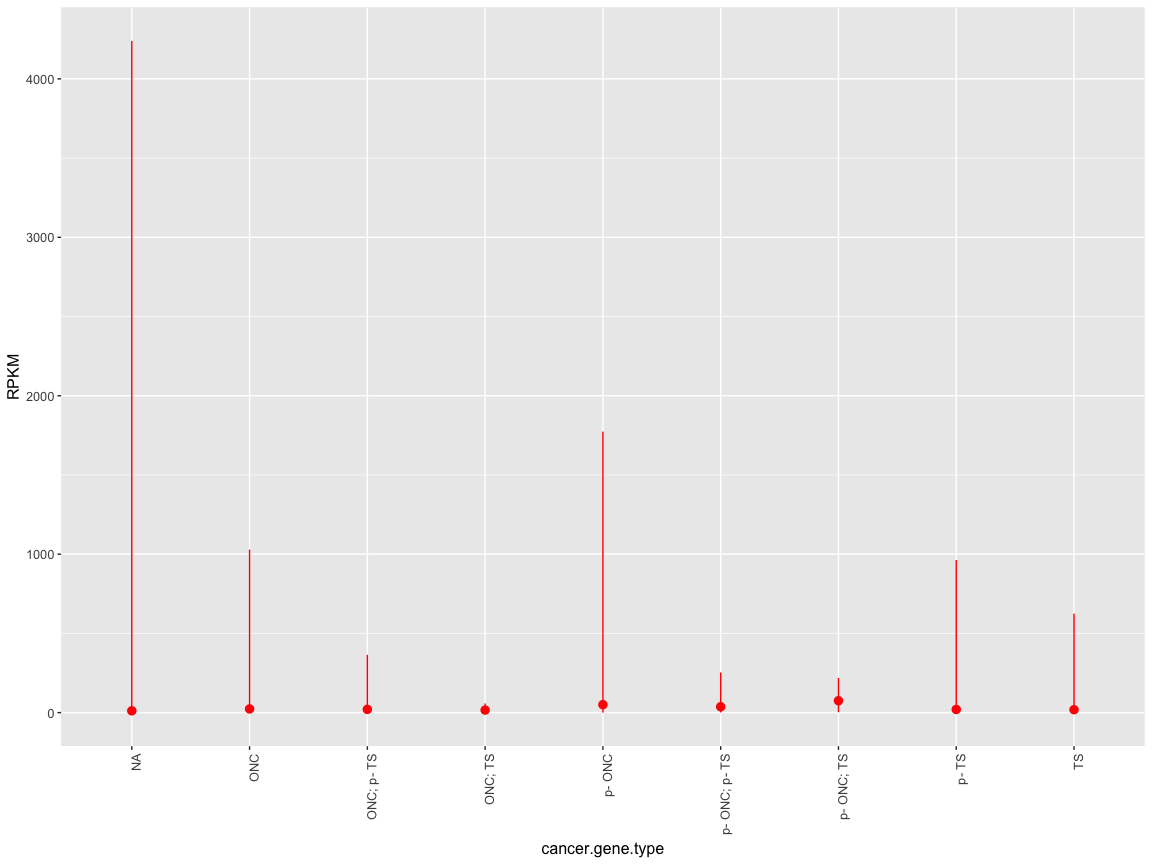
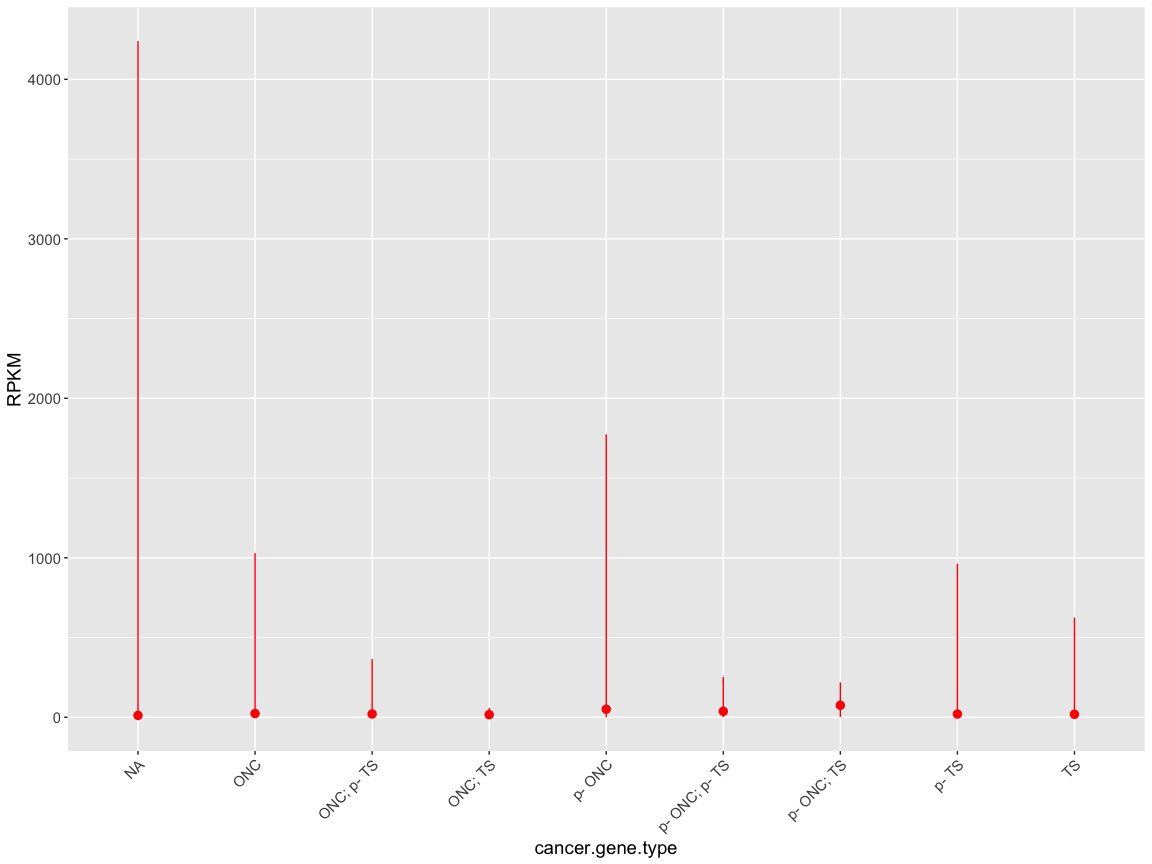
final

Changed region(s): [[0.0, 0.0, 1.0, 0.9375], [0.4688, 0.9375, 0.5938, 1.0]]

diff --git a/stat545-hw3-thibodeau-mylinh/stat545-hw03-thibodeau-mylinh.md b/stat545-hw3-thibodeau-mylinh/stat545-hw03-thibodeau-mylinh.md
@@ -268,15 +268,15 @@ Task menu - Interpretation of tasks in the context of my genomic data
 I don't have a "time" value in my dataset, so I will use some equivalences for genomic data, this would be an example:
 
 -   Countries -&gt; class factor variable (e.g. hugo)
--   Continent -&gt; class factor variable that overarch another factor variable (e.g. cancer.gene.type)
+-   Continent -&gt; class factor variable that overarch another factor variable (e.g. cancer.gene.type, copy.category)
 -   Life expectancy -&gt; class numeric (e.g. RPKM, FC.mean.Bodymap, or even avg.TCGA.percentile treated as a numeric variable)
--   Year -&gt; class integer (e.g. chromosome start, copy.change), or class factor (e.g. avg.TCGA.percentile as a factor variable)
+-   Year -&gt; class integer (e.g. chromosome start, copy.change), or class numeric (e.g. avg.TCGA.percentile as a numeric variable)
 
 I took the liberty to change the class of my variables in order to answer the homework requirements. For example, avg.TCGA.percentile can be either an integer or a numeric class, depending on my needs.
 
 ------------------------------------------------------------------------
 
-1.  Get the maximum and minimum RPKM (Reads Per Kilobase of transcript per Million mapped reads) for each cancer.gene.type. You can find more information about this genomic parameter with [this blog](http://www.rna-seqblog.com/rpkm-fpkm-and-tpm-clearly-explained/) if you are curious.
+### Get the maximum and minimum RPKM (Reads Per Kilobase of transcript per Million mapped reads) for each cancer.gene.type. You can find more information about this genomic parameter with [this blog](http://www.rna-seqblog.com/rpkm-fpkm-and-tpm-clearly-explained/) if you are curious.
 
 Note. Rna-seq data (or transcriptome) is used as a surrogate of gene expression in genomic analyses.
 
@@ -410,7 +410,7 @@ tumour suppressor
 </table>
 It is not surprising that the minimum value of RPKM be zero, since many genes are either not expressed in certain tissues, or they may be silenced in the process of oncogenesis.
 
-Note. I have learned how to use kable and piping from [Rajendran Arun](https://github.com/abishekarun/STAT545-hw-rajendran-arun/blob/master/hw02/hw02_gapminder.Rmd)
+Note. I have learned how to use kable and piping with kable from [Rajendran Arun](https://github.com/abishekarun/STAT545-hw-rajendran-arun/blob/master/hw02/hw02_gapminder.Rmd)
 
 **ABBREVIATIONS**
 
@@ -546,14 +546,14 @@ Here is a visual representation of the minimum and maximum value of RPKM for eac
 rna_cnv %>%
   group_by(cancer.gene.type) %>%
   ggplot(aes(x=cancer.gene.type, y=RPKM, colour = cancer.gene.type)) + stat_summary(fun.y = mean, fun.ymin = min, fun.ymax = max,
-  colour = "red") + theme(text = element_text(size=12), axis.text.x = element_text(angle=90, hjust=1)) 
+  colour = "red") + theme(text = element_text(size=14), axis.text.x = element_text(angle=45, hjust=1)) 
 ```
 
 ![](stat545-hw03-thibodeau-mylinh_files/figure-markdown_github-ascii_identifiers/unnamed-chunk-11-1.png)
 
 ------------------------------------------------------------------------
 
-1.  Look at the spread of RPKM for all each cancer.gene.type group.
+### Look at the spread of RPKM for all each cancer.gene.type group.
 
 I am not sure that the word "spread" refers to here, it might be because of translation issues (unfortunately, the [Collins dictionary](https://www.collinsdictionary.com/dictionary/english-french/spread) did not help me much either), so I will make a table with the summary statistics for each category (mean, standard deviation, median, minimum, maximum, etc.)
 
@@ -813,7 +813,7 @@ We will need to arrange the data (ascending RPKM values) before making a boxplot
 p1 <- rna_cnv %>%
   group_by(cancer.gene.type) %>% 
   ggplot(aes(x=cancer.gene.type, y=RPKM))
-p1+ geom_boxplot() + theme(text = element_text(size=12), axis.text.x = element_text(angle=90, hjust=1)) 
+p1+ geom_boxplot() + theme(text = element_text(size=14), axis.text.x = element_text(angle=45, hjust=1)) 
 ```
 
 ![](stat545-hw03-thibodeau-mylinh_files/figure-markdown_github-ascii_identifiers/unnamed-chunk-13-1.png)
@@ -1004,10 +1004,12 @@ p2 <- rna_cnv %>%
   filter(!hugo %in% c("FTL")) %>%
   group_by(hugo, cancer.gene.type) %>% 
   ggplot(aes(x=cancer.gene.type, y=RPKM))
-p2+ geom_boxplot(aes(colour=cancer.gene.type)) + theme(text = element_text(size=10), axis.text.x = element_text(angle=90, hjust=1)) + theme_bw()
+p2+ geom_boxplot(aes(colour=cancer.gene.type)) + theme(text = element_text(size=14), axis.text.x = element_text(angle=45, hjust=1)) + theme_bw()
 ```
 
-![](stat545-hw03-thibodeau-mylinh_files/figure-markdown_github-ascii_identifiers/unnamed-chunk-15-1.png) Hmm, that didn't help that much. Perhaps a changing the RPKM scale and ignoring the RPKM = 0
+![](stat545-hw03-thibodeau-mylinh_files/figure-markdown_github-ascii_identifiers/unnamed-chunk-15-1.png)
+
+That didn't help that much. Perhaps a changing the RPKM scale and ignoring the RPKM = 0.
 
 ``` r
 p4 <- rna_cnv %>%
@@ -1032,7 +1034,7 @@ p5 + geom_point(aes(colour=cancer.gene.type), alpha = 0.6) +
 
 ![](stat545-hw03-thibodeau-mylinh_files/figure-markdown_github-ascii_identifiers/unnamed-chunk-17-1.png)
 
-Hmm, I have had this problem in the past: even if I arrange the data points in ascending order of RPKM values, they still show on the graph as "randomly" distributed. I talked about it to Vincenzo Coia and he mentioned that I need to looking into factor and levels, so it took me a very very very long time to figure out the following:
+I have had this problem in the past: even if I arrange the data points in ascending order of RPKM values, they still show on the graph as "randomly" distributed. I talked about it to Vincenzo Coia and he mentioned that I need to looking into factor and levels, so it took me a very very very long time to figure out the following:
 
 -   I had duplicated values in the hugo column (genes) and had to remove them before doing ordering the data.
 -   Then after reading a lot of different things online (like [here](https://developmentality.wordpress.com/2010/02/12/r-sorting-a-data-frame-by-the-contents-of-a-column/) and [here](http://www.statmethods.net/management/sorting.html) and [here](https://stackoverflow.com/questions/1296646/how-to-sort-a-dataframe-by-columns) and [here](https://developmentality.wordpress.com/2010/02/12/r-sorting-a-data-frame-by-the-contents-of-a-column/))
@@ -1052,7 +1054,7 @@ p5 + geom_point(aes(colour=cancer.gene.type), alpha = 0.6) +
   theme(text = element_text(size=12), axis.title.x=element_blank(), axis.text.x = element_blank(), axis.ticks.x=element_blank())
 ```
 
-![](stat545-hw03-thibodeau-mylinh_files/figure-markdown_github-ascii_identifiers/unnamed-chunk-18-1.png) My understanding is that I have to treat the gene name (hugo) column as a factor and re-order this column according to the RPKM value if I want ascending RPKM values when I am ploting x=hugo and y=RPKM.
+![](stat545-hw03-thibodeau-mylinh_files/figure-markdown_github-ascii_identifiers/unnamed-chunk-18-1.png) Much better ! So my understanding is that I have to treat the gene name (hugo) column as a factor and re-order this column according to the RPKM value if I want ascending RPKM values when I am ploting x=hugo and y=RPKM.
 
 Let's use facet\_wrap() for better display.
 
@@ -1067,11 +1069,9 @@ p6 + geom_point(aes(colour=cancer.gene.type)) +
 
 ![](stat545-hw03-thibodeau-mylinh_files/figure-markdown_github-ascii_identifiers/unnamed-chunk-19-1.png)
 
-Maybe I should bin the data into subgroups according to a range of RPKM eventually.
-
 ------------------------------------------------------------------------
 
-1.  Part1:Compute a trimmed mean of RPKM for diverse copy.change value.
+### Compute a trimmed mean of RPKM for diverse copy.change value.
 
 **TABLE**
 
@@ -1491,7 +1491,7 @@ The cancer.gene.type groups including ONC (oncogene) appear to have more extreme
 
 ------------------------------------------------------------------------
 
-1.  How is the normal tissue expression (FC.mean.Bodymap) changing according to gene expression percentile of TCGA cancers (avg.TCGA.percentile - this percentile is proportional to RPKM values)
+### How is the normal tissue expression (FC.mean.Bodymap) changing according to gene expression percentile of TCGA cancers (avg.TCGA.percentile - this percentile is proportional to RPKM values)
 
 Since I do not have a time variable, I have chosen the avg.TCGA.percentile because the class is integer. Since there are 100 values, I will bin them for a summary table ([reference here](https://stats.stackexchange.com/questions/14313/grouping-data-in-ranges-in-r-by-summing-them/14318)).
 
@@ -1761,7 +1761,7 @@ p8 + geom_bar(stat="identity", aes(fill=cancer.gene.type))
 
 ------------------------------------------------------------------------
 
-1.  Reporting absolute and relative values
+### Reporting absolute and relative values
 
 **The homework instruction was: Report the absolute and/or relative abundance of countries with low life expectancy over time by continent: Compute some measure of worldwide life expectancy – you decide – a mean or median or some other quantile or perhaps your current age. Then determine how many countries on each continent have a life expectancy less than this benchmark, for each year.**
 
@@ -2067,7 +2067,5 @@ p12 + geom_density(aes(fill=cancer.gene.type), alpha=0.3)
     ## Warning: Removed 24 rows containing non-finite values (stat_density).
 
 ![](stat545-hw03-thibodeau-mylinh_files/figure-markdown_github-ascii_identifiers/unnamed-chunk-41-1.png)
-
-------------------------------------------------------------------------
 
 ------------------------------------------------------------------------

diff --git a/stat545-hw3-thibodeau-mylinh/README.md b/stat545-hw3-thibodeau-mylinh/README.md
@@ -38,6 +38,9 @@ However, overall, what I learned will be so much more useful for my research in 
 4. I have read a lot a lot a lot of different resources online, including useful stackoverflow discussions, and I have put all the links in my homework.
 5. I have learned a lof from the peer review process in this course, so I thank all the students for participating in this great group learning experience !!
 
+*Although I know how to pipe for manipulating tables and ggplot in the same process, since I am early in my learning of R coding, I prefer to fractionate the steps in order to be able to troubleshoot when issues are coming up. Moreover, since the dataset I used is not as "neat and clean" than the Gapminder one, a step-by-step approach helps me identifying if the issues are from my code or from the peculiarities of the dataset!*
+
+
 ### I admit it: I have a gif addiction
 
 ![dna](/scratch-space/200w_d.gif)  
